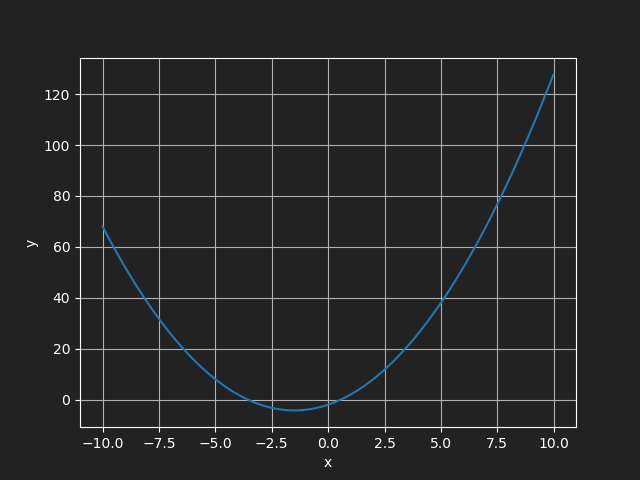
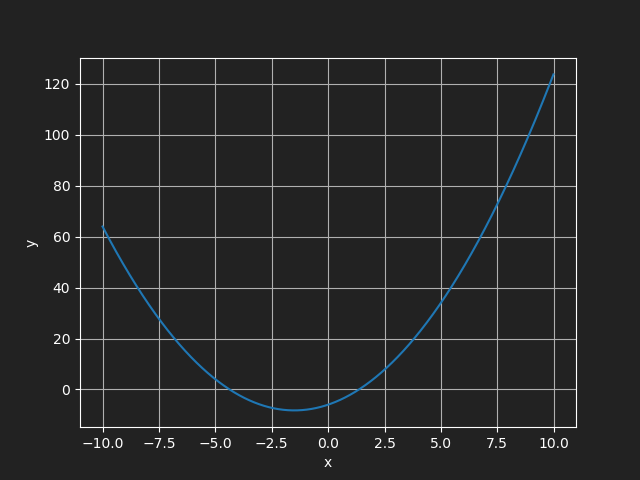
plots.py kann jetzt via markdown-scripted Tabellen.

diff --git a/html/Etwas Geometrie.html b/html/Etwas Geometrie.html
@@ -1,0 +1,107 @@
+<!DOCTYPE html>
+<html xmlns="http://www.w3.org/1999/xhtml" lang="" xml:lang="">
+<head>
+  <meta charset="utf-8" />
+  <meta name="generator" content="pandoc" />
+  <meta name="viewport" content="width=device-width, initial-scale=1.0, user-scalable=yes" />
+  <title>Etwas Geometrie</title>
+  <style type="text/css">
+      code{white-space: pre-wrap;}
+      span.smallcaps{font-variant: small-caps;}
+      span.underline{text-decoration: underline;}
+      div.column{display: inline-block; vertical-align: top; width: 50%;}
+  </style>
+  <link rel="stylesheet" href="https://notes.zortax.de/css/retro.css" />
+  <script src="https://cdnjs.cloudflare.com/ajax/libs/KaTeX/0.8.3/katex.min.js"></script><script src="https://cdnjs.cloudflare.com/ajax/libs/KaTeX/0.8.3/contrib/auto-render.min.js"></script><script>document.addEventListener("DOMContentLoaded", function() {
+    renderMathInElement(document.body);
+  });</script><link rel="stylesheet" href="https://cdnjs.cloudflare.com/ajax/libs/KaTeX/0.8.3/katex.min.css" />
+  <!--[if lt IE 9]>
+    <script src="//cdnjs.cloudflare.com/ajax/libs/html5shiv/3.7.3/html5shiv-printshiv.min.js"></script>
+  <![endif]-->
+</head>
+<body>
+<h1 id="etwas-geometrie">Etwas Geometrie</h1>
+<h2 id="eukildische-geometrie">Eukildische Geometrie</h2>
+<p><strong>Euklid (ca. 300 v.Chr.)</strong>: Axiomatisierung der Geometrie</p>
+<p><span class="math inline">\(\mathcal{E}\)</span>: Ebene, Menge von Punkten <span class="math inline">\(A, B, C.. \in \mathcal{E}\)</span></p>
+<p><span class="math inline">\(\mathcal{G}\)</span>: Menge der Geraden <span class="math inline">\(g, h \subseteq \mathcal{E}\)</span>, <span class="math inline">\(\mathcal{G} \subseteq \mathcal{P}(\mathcal{E})\)</span></p>
+<p><span class="math inline">\((\mathcal{E}, \mathcal{G}, \in) \quad A \in g\)</span>: “Punkt A liegt auf der Geraden g”, <span class="math inline">\(g(A) \iff A \in g\)</span></p>
+<h3 id="axiom-1">Axiom 1</h3>
+<p>Zu je zwei verschiedenen Punkten <span class="math inline">\(A, B\)</span> gibt es genau eine Gerade <span class="math inline">\(g\)</span> mit <span class="math inline">\(g(A) \land g(B)\)</span></p>
+<h3 id="axiom-2">Axiom 2</h3>
+<p>Jede Gerade enthält mindestens zwei Punkte.</p>
+<h3 id="axiom-3">Axiom 3</h3>
+<p>Es gibt drei Punkte <span class="math inline">\(A, B, C\)</span>, die nicht alle auf einer Geraden liegen.<br />
+<span class="math inline">\(\implies\)</span> Es gibt ein Dreieck <span class="math inline">\(ABC\)</span></p>
+<blockquote>
+<p><strong>Satz</strong>: <span class="math inline">\(g, h \in \mathcal{G}, g \neq h \implies |g \cap h| \leq 1\)</span></p>
+</blockquote>
+<hr />
+<blockquote>
+<p><strong>Definition</strong>: <span class="math inline">\(g, h \in \mathcal{G}, g || h :\iff g = h \lor g \cap h = \emptyset\)</span></p>
+</blockquote>
+<h3 id="parallelenaxiom">Parallelenaxiom</h3>
+<p>Sei <span class="math inline">\(g \in \mathcal{G}, c \in \mathcal{E}\)</span>Dann gibt es genau eine Gerade <span class="math inline">\(h \in \mathcal{G}\)</span> mit <span class="math inline">\(h(c)\)</span> und <span class="math inline">\(h||g\)</span></p>
+<h2 id="heutige-geometrische-axiomsysteme">Heutige geometrische Axiomsysteme</h2>
+<p>David Hilbert:</p>
+<ul>
+<li>Zwischenrelation <span class="math inline">\(Zw(A, B, C)\)</span> (B liegt zwischen A und C)</li>
+<li>Kongruenzrelation</li>
+</ul>
+<p>Kolmogorov:</p>
+<ul>
+<li>Abstand <span class="math inline">\(d: \mathcal{E} \times \mathcal{E} \to \mathbb{R}^+_0, (A, B) \mapsto d(A, B)\)</span></li>
+</ul>
+<p><span class="math inline">\(\overline{AB} := \{A, B\} \cup \{C | Zw(A, C, B)\}, \quad |\overline{AB}|=d(A, B)\)</span></p>
+<blockquote>
+<p><strong>Definition</strong>: Eine Bewegung ist eine bijektive Funktion <span class="math inline">\(f: \mathcal{E} \to \mathcal{E}\)</span> mit der Eigenschaft <span class="math inline">\((\forall A, B \in \mathcal{E}) (d(f(A), f(B)) = d(A, B))\)</span></p>
+<p>Spezialfälle:</p>
+<ul>
+<li>Verschiebung (Translation)</li>
+<li>Drehung um einen Punkt</li>
+<li>Spiegelung an einer Geraden g</li>
+</ul>
+<p>Aus diesen kann man alle Bewegungen durch Verkettung erhalten.</p>
+</blockquote>
+<hr />
+<blockquote>
+<p>Bewegungsaxiom: Zu <span class="math inline">\(A, B, C, D\)</span> mit <span class="math inline">\(d(A, B)=d(C, D)\)</span> gibt es genau zwei Bewegungen <span class="math inline">\(f\)</span> mit <span class="math inline">\(f(A)=C\)</span> und <span class="math inline">\(f(B)=D\)</span>.</p>
+</blockquote>
+<hr />
+<blockquote>
+<p><strong>Definition</strong>: <span class="math inline">\(P, Q\)</span> seien Punktmengenn, <span class="math inline">\(P, Q \in \mathcal{E}\)</span>. P und Q heißen <em>kongruent</em>, wenn es eine Bewegung f gibt mit <span class="math inline">\(f(P)=Q\)</span>.</p>
+</blockquote>
+<h3 id="winkel">Winkel</h3>
+<p>Zwei Halbgeraden, die im selben Punkt beginnen.</p>
+<h3 id="bogenmaß">Bogenmaß</h3>
+<p>Ein Kreisbogen um einen Winkel hat bei einem Radius <span class="math inline">\(r\)</span> eine bestimmte Länge <span class="math inline">\(l(r)\)</span>. Das Bogenmaß ist <span class="math inline">\(\frac{l(r)}{r}\)</span>, oder die Kreisbogenlänge im Einheitskreis.</p>
+<h3 id="gradmaß">Gradmaß</h3>
+<p><span class="math inline">\(1^o = \frac{\pi}{180}\)</span></p>
+<h3 id="orientierung">Orientierung</h3>
+<p>Mathematisch positiv ist die Drehung <em>gegen</em> den Uhrzeigersinn.</p>
+<h2 id="dreieck">DREIECK</h2>
+<p><span class="math inline">\(Doppelfunktion \begin{cases} a, b, c \\ \alpha, \beta, \gamma \end{cases}\)</span></p>
+<p><strong>Oft</strong>: Bezeichnung der spezifischen Strecke bzw. des Winkels \ <strong>Meist</strong>: Bezeichnung des <em>Betrags</em> von Strecke oder Winkel</p>
+<table>
+<thead>
+<tr class="header">
+<th>Kongruenzsaetze</th>
+</tr>
+</thead>
+<tbody>
+<tr class="odd">
+<td>SWS</td>
+</tr>
+<tr class="even">
+<td>SSS</td>
+</tr>
+<tr class="odd">
+<td>WSW</td>
+</tr>
+<tr class="even">
+<td>SSW (mit Einschraenkung)</td>
+</tr>
+</tbody>
+</table>
+</body>
+</html>

diff --git a/html/Rechnen mit reellen Zahlen.html b/html/Rechnen mit reellen Zahlen.html
@@ -647,7 +647,8 @@ Ein Polynom n-ten Grades kann in <span class="math inline">\(\mathbb{R}\)</span>
 <h3 id="quadratische-ungleichungen">Quadratische Ungleichungen</h3>
 <p><span class="math inline">\(x^2 + px + q &lt; 0\)</span></p>
 <figure>
-<img src="quadratische%20ungleichung.png" alt="Loesungen sind zwischen den Nullstellen" /><figcaption>Loesungen sind zwischen den Nullstellen</figcaption>
+<img src="quadratische%20ungleichung.png" alt="Quadratische Ungleichung" /><figcaption>Quadratische Ungleichung</figcaption>
 </figure>
+<p>Die Lösungen befinden sich zwischen den Nullstellen, wenn die Funktion dort negative Werte annimmt.</p>
 </body>
 </html>

diff --git a/plots.py b/plots.py
@@ -31,6 +31,12 @@ def draw_function(interval=[-10, 10], f = lambda x: x, title_="", accuracy = 0.0
     ax.grid()
     fig.savefig(fn, facecolor=fig.get_facecolor(), transparent=True)
 
+def table(rows):
+    print("| " + " | ".join(rows[0]) + " |")
+    print("| - " * len(rows[0]) + " |")
+    for row in rows[1:]:
+        print("| " + " | ".join(row) + " |")
+
 def zeta(x):
         return sum(1/(n**x) for n in range(1, 1000))
 

diff --git a/Rechnen mit reellen Zahlen.md b/Rechnen mit reellen Zahlen.md
@@ -757,10 +757,8 @@ $x^2 + px + q < 0$
 ```python-exec
 import plots
 
-plots.draw_function(f=lambda x: x**2 + 3*x + -2, fn="./html/quadratische ungleichung.png")
+plots.draw_function(f=lambda x: x**2 + 3*x + -6, fn="./html/quadratische ungleichung.png")
 print("![Quadratische Ungleichung](quadratische ungleichung.png)")
 ```
 
 Die Lösungen befinden sich zwischen den Nullstellen, wenn die Funktion dort negative Werte annimmt.
-
-Irgendein Text
